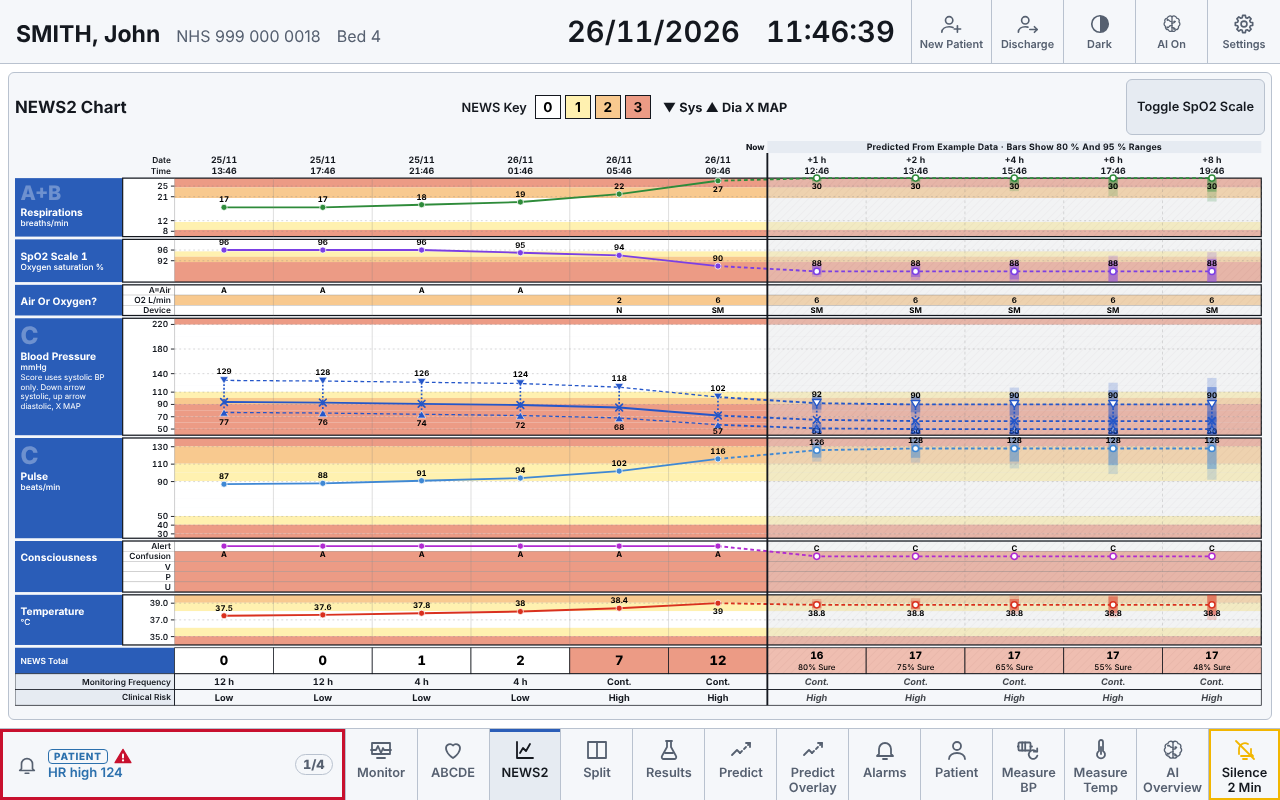
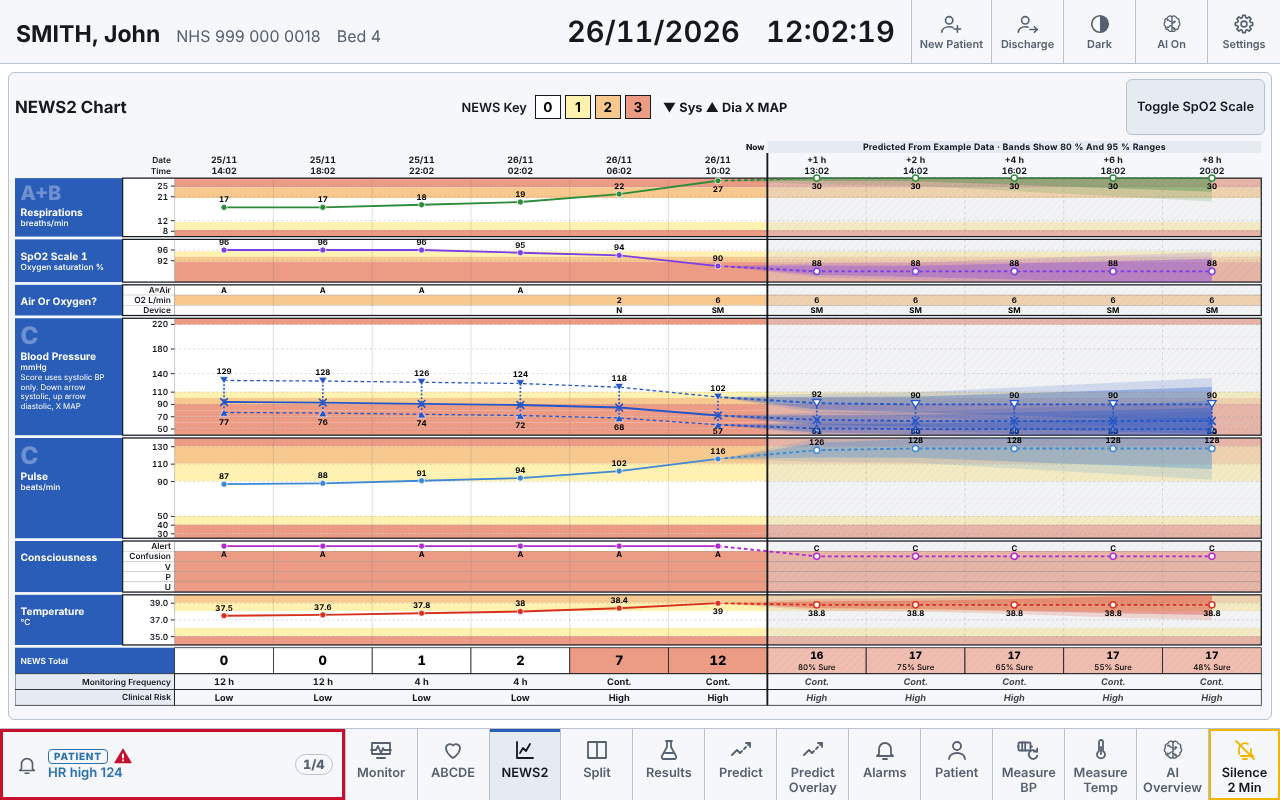
NEWS2 chart: prediction intervals as ribbons around the predicted trend lines
- 80 % and 95 % bands follow each dashed line from the last observation, widening with the horizon (all parameters, and systolic, MAP and diastolic)
- replaces the per-column bars; ribbonPath helper with tests; smoke checks; screenshots

Claude-Session: https://claude.ai/code/session_01D3FjnZYTiQZK2dzcY8Lj43

diff --git a/frontend/src/widgets/News2Chart.tsx b/frontend/src/widgets/News2Chart.tsx
@@ -223,7 +223,7 @@ export function News2Chart({ widget }: { widget: WidgetOf<"news2-chart"> }) {
               <pattern id={hatchId} patternUnits="userSpaceOnUse" width="6" height="6" patternTransform="rotate(45)"><line x1="0" y1="0" x2="0" y2="6" className="n2-hatchline" /></pattern>
             </defs>
             <rect x={colX(obsCount)} y={0} width={(cols - obsCount) * colW} height={13} className="n2-predbanner" />
-            <text x={colX(obsCount) + (cols - obsCount) * colW / 2} y={10} textAnchor="middle" className="n2-predtext">{(cols - obsCount) * colW >= 330 ? "Predicted From Example Data · Bars Show 80 % And 95 % Ranges" : "Predicted From Example Data"}</text>
+            <text x={colX(obsCount) + (cols - obsCount) * colW / 2} y={10} textAnchor="middle" className="n2-predtext">{(cols - obsCount) * colW >= 330 ? "Predicted From Example Data · Bands Show 80 % And 95 % Ranges" : "Predicted From Example Data"}</text>
           </g>
         )}
 
@@ -379,17 +379,27 @@ export function News2Chart({ widget }: { widget: WidgetOf<"news2-chart"> }) {
                   </g>
                 );
               })}
-              {axis && hasPred && sets.map((s, i) => {
-                if (!isPred(s)) return null;
-                const bars = (pid: string, key: string) => {
-                  const lo95 = rangeAt(pid, minutesOf(s), "95"), lo80 = rangeAt(pid, minutesOf(s), "80");
-                  if (!lo80 || !lo95) return null;
-                  const clamp = (v: number) => Math.min(top + bh, Math.max(top, yOf(v)));
-                  const bar = (r: [number, number], cls: string) => <rect x={cx(i) - 5} width={10} y={clamp(r[1])} height={Math.max(1, clamp(r[0]) - clamp(r[1]))} className={cls} style={{ fill: colour }} />;
-                  return <g key={key} data-testid={`news-range-${key}-${i}`} data-lo={lo80[0]} data-hi={lo80[1]}>{colW >= 40 && bar(lo95, "n2-range95")}{bar(lo80, "n2-range80")}</g>;
+              {axis && hasPred && obsCount > 0 && (() => {
+                // the forecast's ranges as a ribbon around each predicted line: nothing at the last observation, widening with the horizon
+                const clamp = (v: number) => Math.min(top + bh, Math.max(top, yOf(v)));
+                const lastObs = sets[obsCount - 1]!;
+                const ribbons = (pid: string, valueKey: string) => {
+                  const start = Number(val(lastObs, valueKey));
+                  const anchor = Number.isFinite(start) ? { x: cx(obsCount - 1), y: clamp(start) } : null;
+                  const pts = sets.map((s, i) => ({ s, i })).filter((q) => isPred(q.s)).map(({ s, i }) => {
+                    const r80 = rangeAt(pid, minutesOf(s), "80"), r95 = rangeAt(pid, minutesOf(s), "95");
+                    return r80 && r95 ? { x: cx(i), lo80: clamp(r80[0]), hi80: clamp(r80[1]), lo95: clamp(r95[0]), hi95: clamp(r95[1]), r80 } : null;
+                  }).filter((q): q is NonNullable<typeof q> => q != null);
+                  if (!pts.length) return null;
+                  return (
+                    <g key={pid} data-testid={`news-ribbon-${pid}`} data-start-x={anchor?.x} data-start-y={anchor?.y} data-end-lo={pts[pts.length - 1]!.r80[0]} data-end-hi={pts[pts.length - 1]!.r80[1]}>
+                      {colW >= 40 && <path className="n2-ribbon95" style={{ fill: colour }} d={ribbonPath(anchor, pts.map((q) => ({ x: q.x, top: q.hi95, bottom: q.lo95 })))} data-testid={`news-ribbon95-${pid}`} />}
+                      <path className="n2-ribbon80" style={{ fill: colour }} d={ribbonPath(anchor, pts.map((q) => ({ x: q.x, top: q.hi80, bottom: q.lo80 })))} data-testid={`news-ribbon80-${pid}`} />
+                    </g>
+                  );
                 };
-                return <g key={s.at}>{bars(g.key, g.key)}{g.key === "bp_sys" && bars("bp_dia", "bp_dia")}</g>;
-              })}
+                return g.key === "bp_sys" ? <>{ribbons("bp_sys", "bp_sys")}{ribbons("bp_mean", "bp_mean")}{ribbons("bp_dia", "bp_dia")}</> : ribbons(g.key, g.key);
+              })()}
               {g.key !== "o2_flow" && dots.map(({ s, i, r, y }) => {
                 const score = g.bands[r]!.score;
                 const above = y - top > 11;
@@ -454,6 +464,19 @@ export function News2Chart({ widget }: { widget: WidgetOf<"news2-chart"> }) {
       </svg>
     </div>
   );
+}
+
+/**
+ * A band around a predicted line as one closed path: the upper edge left to right, then the lower edge back. It starts at the last
+ * observed point (width nothing, because the observation is known) and widens with the horizon. Pure, so it is tested without a chart.
+ */
+export function ribbonPath(anchor: { x: number; y: number } | null, cols: { x: number; top: number; bottom: number }[]): string {
+  if (!cols.length) return "";
+  const f = (n: number) => n.toFixed(1);
+  const up = cols.map((c) => `L${f(c.x)} ${f(c.top)}`).join("");
+  const down = [...cols].reverse().map((c) => `L${f(c.x)} ${f(c.bottom)}`).join("");
+  const first = anchor ?? { x: cols[0]!.x, y: (cols[0]!.top + cols[0]!.bottom) / 2 };
+  return `M${f(first.x)} ${f(first.y)}${up}${down}Z`;
 }
 
 /** A predicted region of a block: a darker veil, then thin diagonal hatching over the coloured score bands. */

diff --git a/frontend/src/widgets/news2predicted.test.ts b/frontend/src/widgets/news2predicted.test.ts
@@ -1,6 +1,6 @@
 import { describe, expect, it } from "vitest";
 
-import { planColumns, trendSegments } from "./News2Chart";
+import { planColumns, ribbonPath, trendSegments } from "./News2Chart";
 
 describe("planColumns", () => {
   it("gives the predictions about half and the newest observed sets the rest, never more than eight", () => {
@@ -30,5 +30,19 @@ describe("trendSegments", () => {
   it("has no dashed part without predictions, and handles a trend that starts predicted", () => {
     expect(trendSegments([pt(1, false), pt(2, false)]).dashed).toEqual([]);
     expect(trendSegments([pt(3, true), pt(4, true)]).dashed.map((p) => p.v)).toEqual([3, 4]);
+  });
+});
+
+describe("ribbonPath", () => {
+  const cols = [{ x: 100, top: 40, bottom: 60 }, { x: 140, top: 30, bottom: 70 }];
+  it("starts at the last observed point, goes along the upper edge, back along the lower, and closes", () => {
+    expect(ribbonPath({ x: 60, y: 50 }, cols)).toBe("M60.0 50.0L100.0 40.0L140.0 30.0L140.0 70.0L100.0 60.0Z");
+  });
+  it("widens with the horizon: the band is wider at the last column than at the first", () => {
+    expect(cols[1]!.bottom - cols[1]!.top).toBeGreaterThan(cols[0]!.bottom - cols[0]!.top);
+  });
+  it("starts at the middle of the first column when there is no observation to start from, and is empty with no columns", () => {
+    expect(ribbonPath(null, cols).startsWith("M100.0 50.0")).toBe(true);
+    expect(ribbonPath({ x: 0, y: 0 }, [])).toBe("");
   });
 });

diff --git a/frontend/src/styles.css b/frontend/src/styles.css
@@ -1177,5 +1177,5 @@ button:disabled { opacity: 0.45; }
 @media (max-width: 1100px) { .tb-date, .tb-clock, .tb-clock time { font-size: 1.1em; } }
 /* the predicted part: hatching sits behind the score colours, which are a little see-through there; the forecast's ranges are bars behind each marker */
 .news2-svg .n2-predband { fill-opacity: 0.62; }
-.news2-svg .n2-range95 { fill-opacity: 0.2; }
-.news2-svg .n2-range80 { fill-opacity: 0.42; }
+.news2-svg .n2-ribbon95 { fill-opacity: 0.16; stroke: none; }
+.news2-svg .n2-ribbon80 { fill-opacity: 0.32; stroke: none; }
